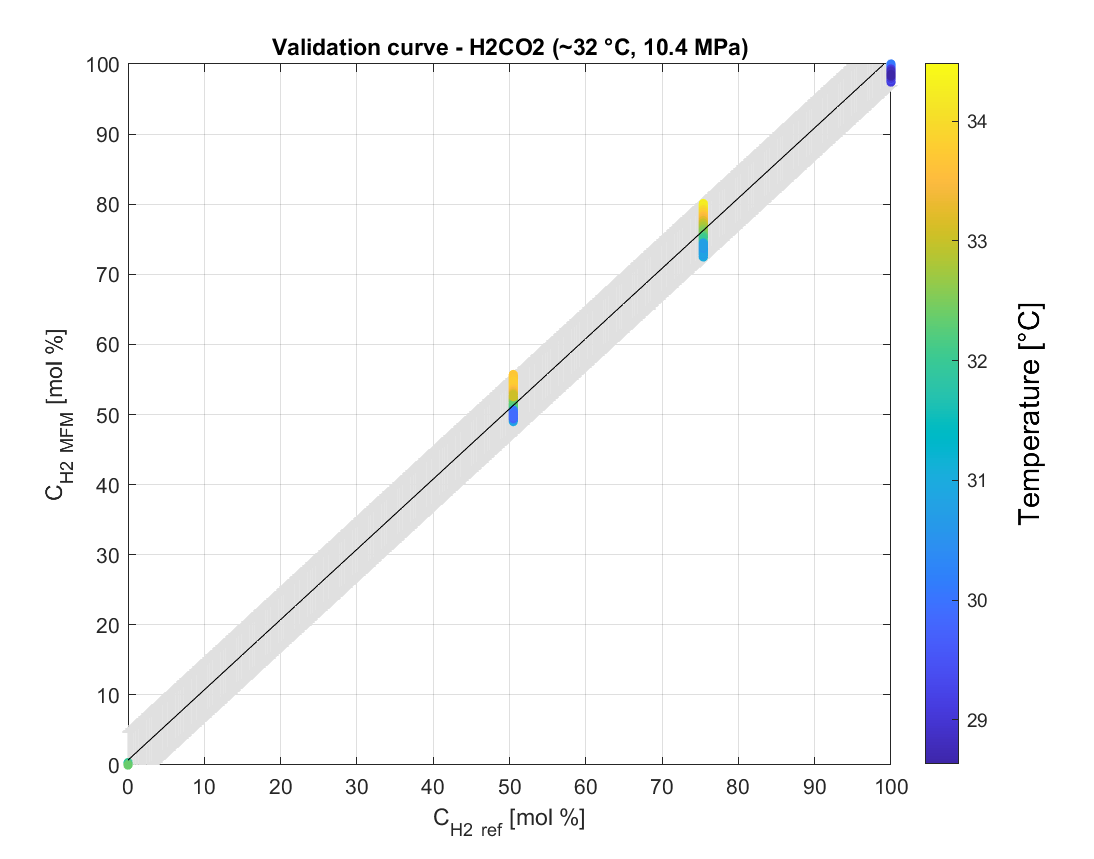
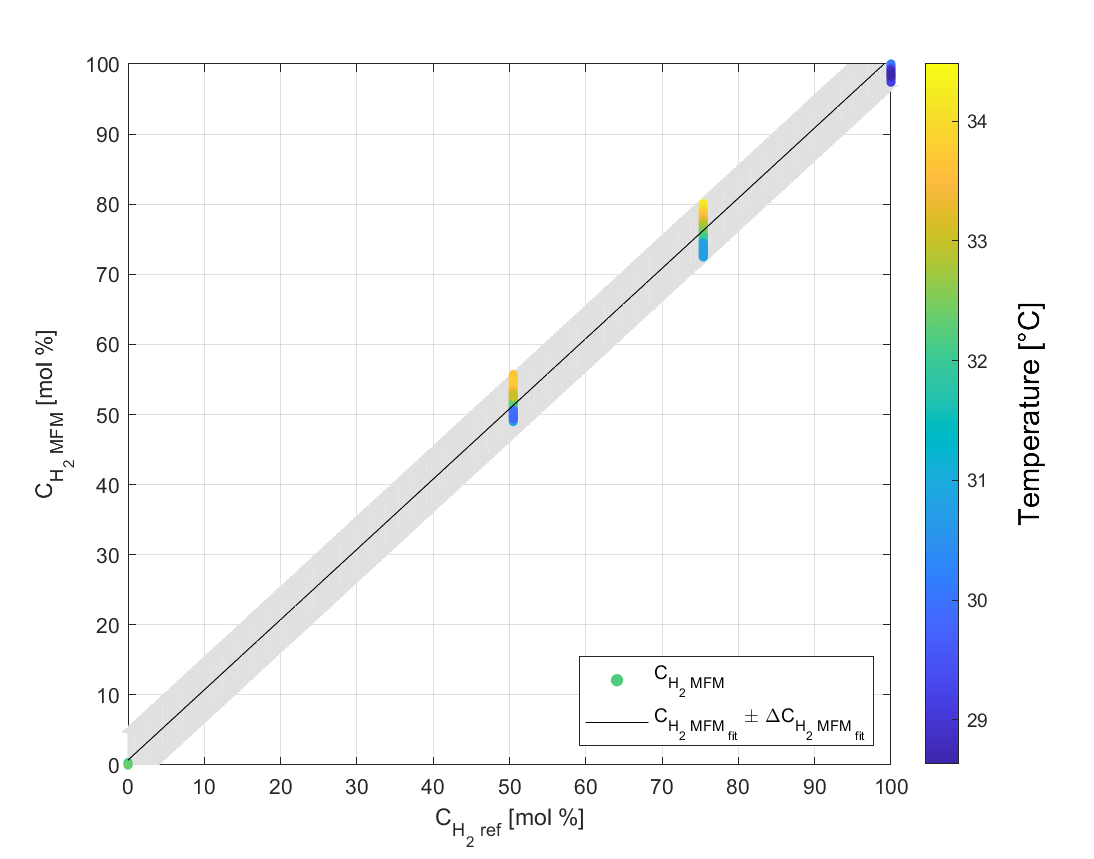
val no title plot

diff --git a/main_Val.m b/main_Val.m
@@ -480,13 +480,13 @@ errorbar(0:0.1:100,Cval_lin_params.feval(0:0.1:100), repmat(CvalFitResults.RMSE,
     'LineStyle', 'none','Color', [0.88 0.88 0.88],'HandleVisibility','Off')
 hold on
 for i = 1: length(filedataExp.Key)
-    scatter(100*expProcData.(filedataExp.Key(i)).P1500.BT.Ci_ref, ...
-        expProcData.(filedataExp.Key(i)).P1500.BT.Ci,20,expProcData.(filedataExp.Key(i)).P1500.BT.T_MFM,'filled')
+    h1 = scatter(100*expProcData.(filedataExp.Key(i)).P1500.BT.Ci_ref, ...
+        expProcData.(filedataExp.Key(i)).P1500.BT.Ci,20,expProcData.(filedataExp.Key(i)).P1500.BT.T_MFM,'filled');
 hold on
 end
-plot(0:1:100,Cval_lin_params.feval(0:1:100),"Color",'k') % fitting responds to high pressure only
-xlabel('C_{H2} _{ref} [mol %]');
-ylabel('C_{H2} _{MFM} [mol %]');
+h2 = plot(0:1:100,Cval_lin_params.feval(0:1:100),"Color",'k'); % fitting responds to high pressure only
+xlabel('C_{H_2}_{ ref} [mol %]');
+ylabel('C_{H_2}_{ MFM} [mol %]');
 xlim([0 100]);
 ylim([0 100]);
 c=colorbar;
@@ -499,5 +499,6 @@ cTicks = c.Ticks;
 cTicks = cTicks(mod(cTicks,1) == 0);
 c.Ticks = cTicks;
 grid on
-title("Validation curve - H2CO2 (~32 °C, 10.4 MPa)")
+legend([h1,h2],{'C_{H_2}_{ MFM}','C_{H_2}_{ MFM_{ fit}} \pm \DeltaC_{H_2}_{ MFM_{ fit}}'},'Location','southeast')
+% title("Validation curve - H2CO2 (~32 °C, 10.4 MPa)")
 saveas(gcf,pathExportAll + "Val-P1500",'png')